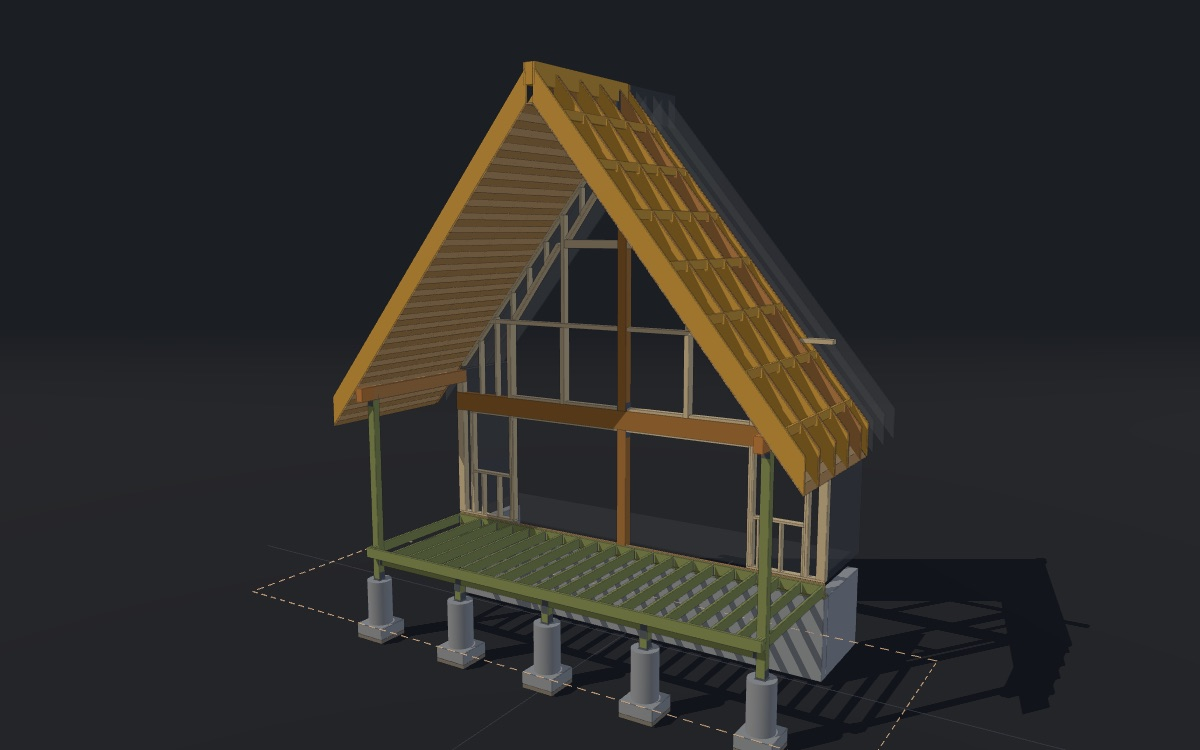
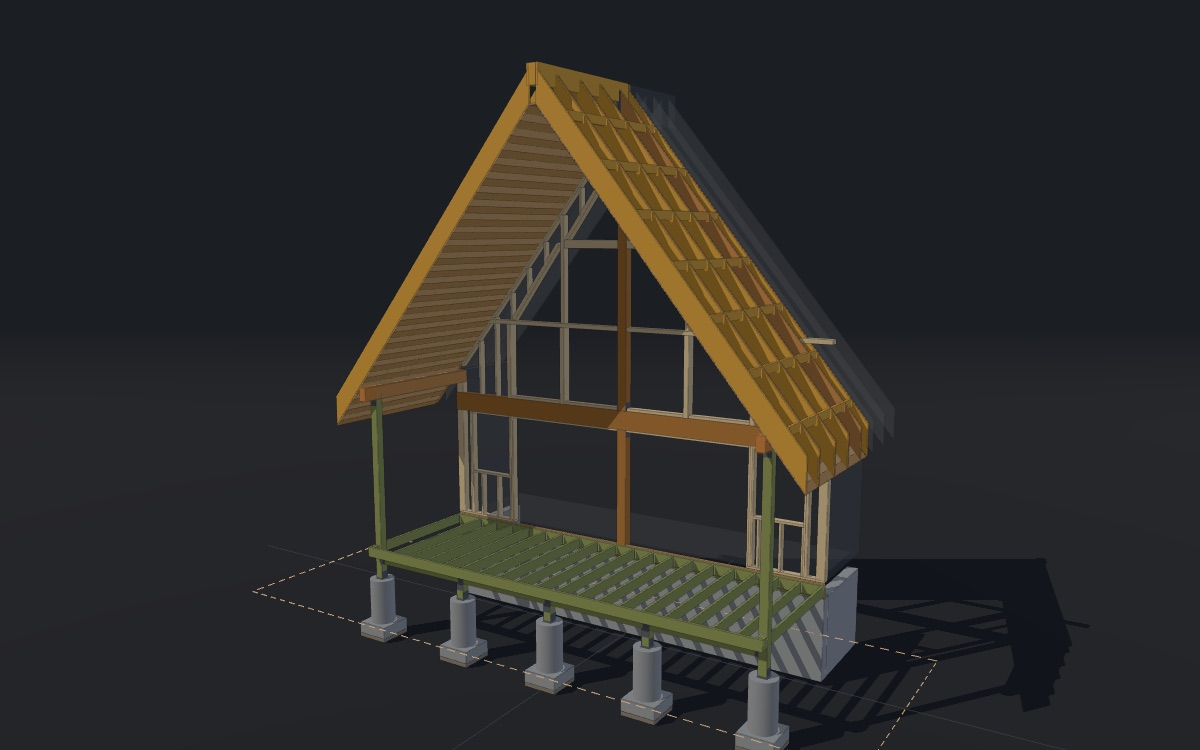
feat: rear deck to the ledger tapes

diff --git a/rear-deck.html b/rear-deck.html
@@ -61,8 +61,8 @@
   <!-- ===== EDIT: HEADER / LEGEND / CONTROLS ===== -->
   <a class="panel" id="home" href="https://tredfield.github.io/138-tahoma-cabin/" title="Back to the list of drawings">&larr; All drawings</a>
   <div class="panel" id="header">
-    <h1>Rear deck and roof (north, gridline 4) — 8'-9" deck, 7'-4" ridge GLB, roof edge 9'-2"</h1>
-    <div class="sub"><b>Rear deck and roof</b> at the north gable wall: 26'-0" x 8'-9" deck on (5) PT6X6 posts under a 15:12 gable on 2X14 rafters. Show &rarr; Decking / fascia / roofing and Guardrail are off by default; untick T&amp;G soffit to see the rafters. Orange = field-verify or TBD. Design record: <code>wiki/construction/deck-roof-framing.md</code>. Not engineered &mdash; do not build from this.
+    <h1>Rear deck and roof (north, gridline 4) — posts 94" off the ledger, 8'-4" joists, 7'-4" ridge GLB</h1>
+    <div class="sub"><b>Rear deck and roof</b> at the north gable wall: 26'-0" deck on 8'-4" joists and (5) PT6X6 posts under a 15:12 gable on 2X14 rafters. Show &rarr; Decking / fascia / roofing and Guardrail are off by default; untick T&amp;G soffit to see the rafters. Orange = field-verify or TBD. Design record: <code>wiki/construction/deck-roof-framing.md</code>. Not engineered &mdash; do not build from this.
     Drag to orbit · scroll to zoom · right-drag to pan. · arrow keys (or WASD) walk, PageUp/PageDown change eye height, Shift runs.</div>
   </div>
   <div class="panel" id="legend">
@@ -1554,7 +1554,7 @@ const D = {
   HALF_W: 156,                                  // 26'-0" C to A, gridline B centered
   CORNER_X: 153.25,                             // corner-post centre: outer face flush with the wall studs at gridlines C / A (field)
   STATIONS: [-153.25, -75, 0, 75, 153.25],      // post centres: S3.1 0 / 6'-9" / 13'-0" / 19'-3" / 26'-0" from gridline C, corners 2 3/4" in (outer faces on C / A)
-  POST_LINE: -96,                               // gridline 5, 8'-0" north of gridline 4 (S3.1)
+  POST_FACE: -95.9375,                          // corner posts' outside (north) faces: 94" from the ledger's outer face (owner tapes 94 1/8" W / 93 3/4" E, 2026-11-23)
   BEAM_W: 3.5, BEAM_D: 7.25,                    // PT4X8 drop beam
   EAVE_TIP: 180,                                // 2'-0" past gridlines A / C
   WALL_T: 5.5, SHEATH_T: 0.4375,                // 2X6 wall, 7/16" OSB (sheathing at z -0.4375 .. 0)
@@ -1574,10 +1574,12 @@ const D = {
   N_Y0: 223, N_Y1: 281, N_OUT: 46.5,            // N triangles
 };
 D.RIDGE_END = -(D.SHEATH_T + 88);               // GLB ends 7'-4" from the sheathing face (owner 2026-09-02) → z = -88.44
-D.BEAM_Z0 = D.POST_LINE - D.BEAM_W / 2;         // -97.75 (outer face) — deck edge
-D.BEAM_Z1 = D.POST_LINE + D.BEAM_W / 2;         // -94.25
-D.DECK_EDGE = D.POST_LINE - 9;                  // -105: 8'-9" from gridline 4 — joists cantilever 9" past the post line so the deck just covers the 18"Ø plinths (owner 2026-09-02; first 8'-6", revised the same day)
-D.ROOF_EDGE = -109.75;                          // 9'-1 3/4" from gridline 4: set as 1'-0" past the original 8'-1 3/4" deck edge and KEPT when the deck grew (owner) → now ~4 3/4" past the deck edge
+D.POST_LINE = D.POST_FACE + 2.75;               // -93.19: post centres, beam, plinths and pads (2 13/16" toward the house from S3.1's 8'-0" gridline 5)
+D.BEAM_Z0 = D.POST_LINE - D.BEAM_W / 2;         // -94.94 (outer face)
+D.BEAM_Z1 = D.POST_LINE + D.BEAM_W / 2;         // -91.44
+D.DECK_EDGE = D.POST_FACE - 7.5;                // -103.44: rim outside face, 7 1/2" past the post face (joists 8'-4" from the ledger face)
+D.FASCIA_FACE = D.POST_FACE - 13.5;             // -109.44: outside face of the lapped rake board, 13 1/2" past the post face (owner tape)
+D.ROOF_EDGE = D.FASCIA_FACE + 2.75;             // -106.69: barge / rake framing outer face, 2 3/4" inside the fascia face (two rake boards)
 D.RAFTER_PLUMB = D.RAFTER_D / Math.cos(Math.atan(D.PITCH));      // 20.6" plumb at 14.7:12
 D.roofTop = x => D.RIDGE_TOP - D.PITCH * Math.abs(x);            // top of rafter at plan offset x
 D.roofBot = x => D.roofTop(x) - D.RAFTER_PLUMB;                  // underside of rafter
@@ -1930,7 +1932,7 @@ for (const s of [-1, 1]) {
 
 // ===========================================================================
 // 2. REAR DECK (layer 'deck') — S3.1 as drawn: PT2X8 ledger, PT2X8 joists @ 16" o.c. bearing over a
-//    PT4X8 drop beam on the 8'-0" post line, five PT6X6 posts; joists cantilever to a rim at the 8'-9" edge.
+//    PT4X8 drop beam on the post line (post faces 94" off the ledger), five PT6X6 posts; joists run 8'-4" from the ledger face to a rim.
 // ===========================================================================
 const LED_Z1 = -D.SHEATH_T, LED_Z0 = LED_Z1 - 1.5;          // ledger against the 7/16" sheathing: z -0.44 .. -1.94
 const J_TOP = -1.5, J_BOT = J_TOP - 7.25;                    // PT2X8 joists: surface -1/2", 1" decking placeholder
@@ -1983,13 +1985,13 @@ function postBase(xs, zc) {                                  // ABU66Z-type stan
 }
 
 box(-156, 156, J_BOT, J_TOP, LED_Z0, LED_Z1, M.pt, 'deck');                       // PT2X8 HF#2 LEDGER (Dtl 10/S4.1)
-const RIM_Z1 = D.DECK_EDGE + 1.5;                                                  // PT2X8 rim at the cantilevered edge (S3.1 had no cantilever and no rim)
-for (const xc of JOIST_X) {                                                        // PT2X8 HF#2 DECK JST. @ 16" O.C., cantilevered 9" past the post line
+const RIM_Z1 = D.DECK_EDGE + 1.5;                                                  // -101.94: joist ends, 8'-4" from the ledger face; PT2X8 rim outside them (S3.1 had no cantilever and no rim)
+for (const xc of JOIST_X) {                                                        // PT2X8 HF#2 DECK JST. @ 16" O.C., ledger face to the rim, over the drop beam
   box(xc - 0.75, xc + 0.75, J_BOT, J_TOP, LED_Z0, RIM_Z1, M.pt, 'deck');
   joistHanger(xc, J_BOT, J_TOP, LED_Z0, -1);
 }
-box(-D.HALF_W, D.HALF_W, J_BOT, J_TOP, D.DECK_EDGE, RIM_Z1, M.pt, 'deck');         // PT2X8 rim — outer face is the 8'-9" deck edge, ends on gridlines C / A
-const POST_HS = D.POST_LINE + 2.75, POST_N = D.POST_LINE - 2.75;                   // corner post's house-side face -93.25 / north face -98.75
+box(-D.HALF_W, D.HALF_W, J_BOT, J_TOP, D.DECK_EDGE, RIM_Z1, M.pt, 'deck');         // PT2X8 rim — outer face 7 1/2" past the post face, ends on gridlines C / A
+const POST_HS = D.POST_LINE + 2.75, POST_N = D.POST_LINE - 2.75;                   // corner post's house-side face -90.44 / north face -95.94
 for (const s of [-1, 1]) {
   const xa = Math.min(s * END_J_X0, s * END_J_X1), xb = Math.max(s * END_J_X0, s * END_J_X1), xc = (xa + xb) / 2;
   box(xa, xb, J_BOT, J_TOP, LED_Z0, POST_HS, M.pt, 'deck');                       // PT2X8 END JOIST, ledger to the corner post
@@ -2025,7 +2027,7 @@ for (const xs of D.STATIONS) {
 
 // ===========================================================================
 // 3. ROOF (layer 'roof') — the ≈15:12 main gable carried out over the deck on the short ridge GLB and the
-//    two 6X10 eave beams; the last ≈1'-9" past the GLB end is scheme A (outlooker ladder), concept only.
+//    two 6X10 eave beams; the last ≈1'-6 1/4" past the GLB end is scheme A (outlooker ladder), concept only.
 // ===========================================================================
 const RW = 1.5, RIDGE_HW = 2.75;
 // 2X14 rafter: side profile in X-Y, plumb-cut at the ridge face and the eave tip, 1.5" thick from z0 toward +z
@@ -2050,7 +2052,7 @@ box(-RIDGE_HW, RIDGE_HW, D.RIDGE_BOT, D.RIDGE_TOP, W1, 72, M.ghost, 'context');
 // the beam end. Scheme A: doubled carrier pair at the GLB end, doubled anchor pairs behind it, 2X6 outlookers on edge
 // let into the rafter tops from the gable rafter to the barge, 2X14 scabs on the GLB faces with a false-ridge block,
 // and a barge pair at the roof edge. Concept only — sizes, hold-downs and bolting are Pieruccioni's.
-const CARRIER_Z = D.RIDGE_END;                                // -88.44: outer ply flush with the GLB end
+const CARRIER_Z = D.RIDGE_END;                                // -88.44: outer ply flush with the GLB end (rake cantilevers ~18 1/4" past it)
 for (const s of [-1, 1]) {
   rafter(s, 2, M.roof, 'roof'); lruHanger(s, 2);              // gable rafter in the wall plane (S4.3 "GABLE RAFTER")
   rafter(s, 0.5, M.concept, 'roof');                          // second ply: anchor at the wall
@@ -2071,7 +2073,7 @@ for (const s of [-1, 1]) {
 }
 box(-RIDGE_HW, RIDGE_HW, D.RIDGE_TOP - D.RAFTER_D, D.RIDGE_TOP, D.ROOF_EDGE, D.RIDGE_END, M.concept, 'roof');          // false-ridge block
 // 6X10 DF#2 eave drop beams on gridlines A / C: from the 4-stud pack in the wall, over the corner-post caps, and
-// cantilevering ≈11" past them to the roof edge (owner; NOT on the sheets — flagged)
+// cantilevering ≈10 3/4" past them to the roof edge (owner; NOT on the sheets — flagged)
 for (const s of [-1, 1]) {
   const x0 = s * D.CORNER_X - 2.75, x1 = s * D.CORNER_X + 2.75;   // x +/-(150.5 .. 156): outer face flush with the wall studs
   box(x0, x1, D.EAVE_BEAM_BOT, D.EAVE_BEAM_TOP, D.ROOF_EDGE, W1, M.roof, 'roof');
@@ -2144,10 +2146,14 @@ for (const s of [-1, 1]) {
     // 2X10 rake fascia outboard of the barge rafter (A02 dtl 5), top flush with the sheathing
     prism([[0, D.roofTop(0) + 0.6], [s * D.EAVE_TIP, D.roofTop(D.EAVE_TIP) + 0.6], [s * D.EAVE_TIP, D.roofTop(D.EAVE_TIP) - 8.65], [0, D.roofTop(0) - 8.65]],
           D.ROOF_EDGE, D.ROOF_EDGE - 1.5, M.fram, 'finish');
+    // lapped 1 1/4" rake board outboard of it (as built, two boards): top at the roofing top, bottom 2" above the base
+    // board's, so its edges share no plane with the base board; its outside face is the fascia face, 13 1/2" past the post face
+    prism([[0, D.roofTop(0) + 0.9], [s * D.EAVE_TIP, D.roofTop(D.EAVE_TIP) + 0.9], [s * D.EAVE_TIP, D.roofTop(D.EAVE_TIP) - 6.65], [0, D.roofTop(0) - 6.65]],
+          D.ROOF_EDGE - 1.5, D.FASCIA_FACE, M.fram, 'finish');
     // 2X10 eave fascia on the rafter tails at the eave tip
     box(s * D.EAVE_TIP, s * (D.EAVE_TIP + 1.5), D.roofTop(D.EAVE_TIP) - 8.65, D.roofTop(D.EAVE_TIP) + 0.6, D.ROOF_EDGE - 1.5, 0, M.fram, 'finish');
   }
-  // 1" decking placeholder (0615) overhanging the skirt 3/4" on the three open sides: x +/-157 1/2, north edge z -106 1/2
+  // 1" decking placeholder (0615) overhanging the skirt 3/4" on the three open sides: x +/-157 1/2, north edge z -104.94 (9" past the post face)
   box(-(DECK_END + OVERHANG), DECK_END + OVERHANG, J_TOP, -0.5, LED_Z1, D.DECK_EDGE - SKIRT_T - OVERHANG, M.deck, 'finish', false);
   // 1x10 cedar skirt tucked under the decking on the three open sides: north board full width, end boards butt its back
   // face (no shared faces); tops at the decking underside like the joists, bottoms 9 1/4" down at -10.75; end skirts on the
@@ -2206,9 +2212,9 @@ box(-150.5, 150.5, -0.75, 0, W1, 72, M.ghostFl, 'context');                     
   tagAt(['CORNER POST (2)', 'PT6X6 HF#2, ACH6Z cap', 'ABU66Z on 5/8" x 5" Titen', 'cedar box 7" sq above the decking'], -D.CORNER_X, 30, PN, 'z-', TF);
   tagAt(['CENTER POST (3)', 'PT6X6 HF#2, ABU66Z base', 'stops under the drop beam'], 75, -24, PN, 'z-', TF);
   tagAt(['DROP BEAM PT4X8 HF#2', '4 segments, HUC46Z at corners'], -130, (B_BOT + B_TOP) / 2, D.BEAM_Z0 - 0.15, 'z-', TF);
-  tagAt(['JOISTS PT2X8 HF#2 @ 16" o.c.', 'over the beam, 9" cantilever', 'rim face 8\'-9" from gridline 4'], -30, (J_BOT + J_TOP) / 2, RIM, 'z-', TF);
+  tagAt(['JOISTS', 'PT2X8 HF#2 @ 16" o.c.'], -30, (J_BOT + J_TOP) / 2, RIM, 'z-', TF);
   tagAt(['LEDGER PT2X8 HF#2', 'per 10/S4.1'], 100, (J_BOT + J_TOP) / 2, LED_Z0 - 0.15, 'z-', TF);
-  tagAt(['END JOIST PT2X8', 'hung on the corner post', 'BLOCKING, in front of the post', 'decking overhangs 3/4"', 'skirt 1x10, 9 1/4" under the decking'], 125, (SKIRT_BOT + J_TOP) / 2 + 8, D.DECK_EDGE - SKIRT_T - 0.15, 'z-', TF);
+  tagAt(['END JOIST PT2X8', 'hung on the corner post', 'BLOCKING, in front of the post', 'SKIRT 1x10 cedar'], 125, (SKIRT_BOT + J_TOP) / 2 + 8, D.DECK_EDGE - SKIRT_T - 0.15, 'z-', TF);
   tagAt(['FOOTING (5)', '24" sq x 8" pad, 18"Ø plinth', 'top 8" above grade, Dtl 4/S4.1'], -75, -50, PLN, 'z-', TF);
   tagAt(['FIELD VERIFY: grade', 'drawn at -3\'-0"'], 75, -46, PLN, 'z-', TFLAG);
   tagAt(['FIELD VERIFY: post centering', 'plinths drawn centered'], D.CORNER_X, -50, PLN, 'z-', TFLAG);
@@ -2221,10 +2227,10 @@ box(-150.5, 150.5, -0.75, 0, W1, 72, M.ghostFl, 'context');                     
   tagAt(['GABLE WALL 2X6 DF @ 16" o.c.', '4X8 posts at J, HSLQ47-SDS2.5', 'DBL SILLs, sloped top plate'], 120, 140, W0 - 0.15, 'z-', TF);
   // roof
   tagAt(['RIDGE GLB 5 1/2" x 24"', 'ends 7\'-4" from sheathing'], 0, 309, D.RIDGE_END - 0.15, 'z-', TF);
-  tagAt(['RAKE EXTENSION 1\'-9": TBD', 'pending engineer, do not build'], 0, 328, RE, 'z-', TFLAG);
+  tagAt(['RAKE EXTENSION 1\'-6 1/4": TBD', 'pending engineer, do not build'], 0, 328, RE, 'z-', TFLAG);
   tagAt(['RAFTERS 2X14 DF#2 @ 24" o.c.', '15:12, LRU210 hangers at GLB', 'bear on the 6X10 eave beams'], -80, (D.roofTop(80) + D.roofBot(80)) / 2, CARRIER_Z - 0.15, 'z-', TF);
   tagAt(['EAVE BEAM 6X10 DF#2 (2)', 'from 4-stud pack, ACH6Z cap', 'cedar box 7" x 10 1/4", sides + bottom, end board'], -D.CORNER_X, (D.EAVE_BEAM_BOT + D.EAVE_BEAM_TOP) / 2, RE, 'z-', TF);
-  tagAt(['EAVE BEAM CANTILEVER 11"', 'PENDING ENGINEER'], D.CORNER_X, (D.EAVE_BEAM_BOT + D.EAVE_BEAM_TOP) / 2, RE, 'z-', TFLAG);
+  tagAt(['EAVE BEAM CANTILEVER 10 3/4"', 'PENDING ENGINEER'], D.CORNER_X, (D.EAVE_BEAM_BOT + D.EAVE_BEAM_TOP) / 2, RE, 'z-', TFLAG);
   tagAt(['SOFFIT 1X6 CEDAR T&G', 'under rafters, wall to gable end'], -100, D.roofBot(100) - 0.4, RE, 'z-', TF);
 }
 // levels and gridlines (context sprites)
@@ -2232,17 +2238,16 @@ label('LOWER FLR 0\'-0"', -200, 0, -110, NOTE);
 label('UPPER FLR 10\'-0" (no floor at this wall)', -178, 132, -100, NOTE);
 label('T.O. RAFTER 27\'-6"', -80, 333, -122, NOTE);
 label('Gridline C (west)', -156, -30, -108, NOTE); label('Gridline B — ridge', 0, -30, -108, NOTE); label('Gridline A (east)', 156, -30, -108, NOTE);
-label('Gridline 4 — north wall', 196, 20, 0, NOTE); label('Gridline 5 — post line 8\'-0"', 196, 20, -96, NOTE);
+label('Gridline 4 — north wall', 196, 20, 0, NOTE); label('Post line', 196, 20, D.POST_LINE, NOTE);
 
 // dimensions -------------------------------------------------------------------
 const DX = 176;                                                                    // dimension plane just past gridline A
-dim(V(DX, -4, 0), V(DX, -4, D.DECK_EDGE), '8\'-9" to the framing edge; 3/4" cedar skirt outside', V(0, 0, 0), V(1, 0, 0));
-dim(V(DX, -24, 0), V(DX, -24, D.POST_LINE), '8\'-0" post line', V(0, 0, 0), V(1, 0, 0));
-dim(V(DX, 118, 0), V(DX, 118, D.ROOF_EDGE), '9\'-1 3/4" roof edge', V(0, 0, 0), V(1, 0, 0));
-dim(V(DX, 106, D.DECK_EDGE), V(DX, 106, D.ROOF_EDGE), '≈5"', V(0, 0, 0), V(1, 0, 0));
+dim(V(DX, 52, LED_Z0), V(DX, 52, POST_N), '94" ledger face to post face', V(0, 0, 0), V(1, 0, 0));
+dim(V(DX, 70, LED_Z0), V(DX, 70, RIM_Z1), '8\'-4" joists from the ledger face', V(0, 0, 0), V(1, 0, 0));
+dim(V(DX, 14, POST_N), V(DX, 14, D.DECK_EDGE), '7 1/2" post face to rim', V(0, 0, 0), V(1, 0, 0));
+dim(V(DX, 88, POST_N), V(DX, 88, D.FASCIA_FACE), '13 1/2" post face to fascia', V(0, 0, 0), V(1, 0, 0));
 dim(V(0, D.RIDGE_TOP + 8, -D.SHEATH_T), V(0, D.RIDGE_TOP + 8, D.RIDGE_END), '7\'-4" GLB end, from the sheathing face', V(0, 0, 0), V(0, 1, 0));
-dim(V(0, D.RIDGE_TOP + 8, D.RIDGE_END), V(0, D.RIDGE_TOP + 8, D.ROOF_EDGE), '1\'-9" rake extension', V(0, 0, 0), V(0, 1, 0));
-dim(V(-30, D.RIDGE_TOP + 20, 0), V(-30, D.RIDGE_TOP + 20, D.ROOF_EDGE), '9\'-1 3/4" roof edge', V(0, 0, 0), V(0, 1, 0));
+dim(V(0, D.RIDGE_TOP + 8, D.RIDGE_END), V(0, D.RIDGE_TOP + 8, D.ROOF_EDGE), '1\'-6 1/4" rake extension', V(0, 0, 0), V(0, 1, 0));
 dim(V(-156, -36, -122), V(156, -36, -122), '26\'-0" gridline C to A', V(0, 0, 0), V(0, 1, 0));
 dim(V(-156, -36, -110), V(-75, -36, -110), '6\'-9"', V(0, 0, 0), V(0, 1, 0));
 dim(V(-75, -36, -110), V(0, -36, -110), '6\'-3"', V(0, 0, 0), V(0, 1, 0));
@@ -2251,7 +2256,7 @@ dim(V(75, -36, -110), V(156, -36, -110), '6\'-9"', V(0, 0, 0), V(0, 1, 0));
 dim(V(156, 148, -116), V(180, 148, -116), '2\'-0" eave', V(0, 0, 0), V(0, 1, 0));
 dim(V(-190, 0, -40), V(-190, D.UPPER_FLR, -40), '10\'-0"', V(0, 0, 0), V(1, 0, 0));
 dim(V(-190, D.UPPER_FLR, -40), V(-190, D.RIDGE_TOP, -40), '17\'-6" to T.O. RAFTER', V(0, 0, 0), V(1, 0, 0));
-dim(V(164, 125, D.POST_LINE - 2.75), V(164, 125, D.ROOF_EDGE), '11" — PENDING ENGINEER', V(0, 0, 0), V(1, 0, 0));
+dim(V(164, 125, D.POST_LINE - 2.75), V(164, 125, D.ROOF_EDGE), '10 3/4" — PENDING ENGINEER', V(0, 0, 0), V(1, 0, 0));
 dim(V(-75, D.GRADE, -132), V(-75, D.PLINTH_TOP, -132), '8" plinth above grade', V(0, 0, 0), V(1, 0, 0));
 dim(V(4, 88, -6), V(100, 88, -6), '8\'-0" door 10', V(0, 0, 0), V(0, 1, 0));
 dim(V(-100, 88, -6), V(-4, 88, -6), '8\'-0" door 9', V(0, 0, 0), V(0, 1, 0));
@@ -2280,7 +2285,7 @@ const VIEWS = {
   side:    { pos: [860, 210, -170], tgt: [0, 125, -50] },
   peak:    { pos: [-150, 440, -250], tgt: [0, 305, -70] },
   top:     { pos: [0, 820, -50], tgt: [0, 0, -50] },
-  footing: { pos: [-230, 10, -330], tgt: [-75, -40, -96] },
+  footing: { pos: [-230, 10, -330], tgt: [-75, -40, -93] },
 };
 // ===== END EDIT: VIEWS =====
 function setView(name) {
